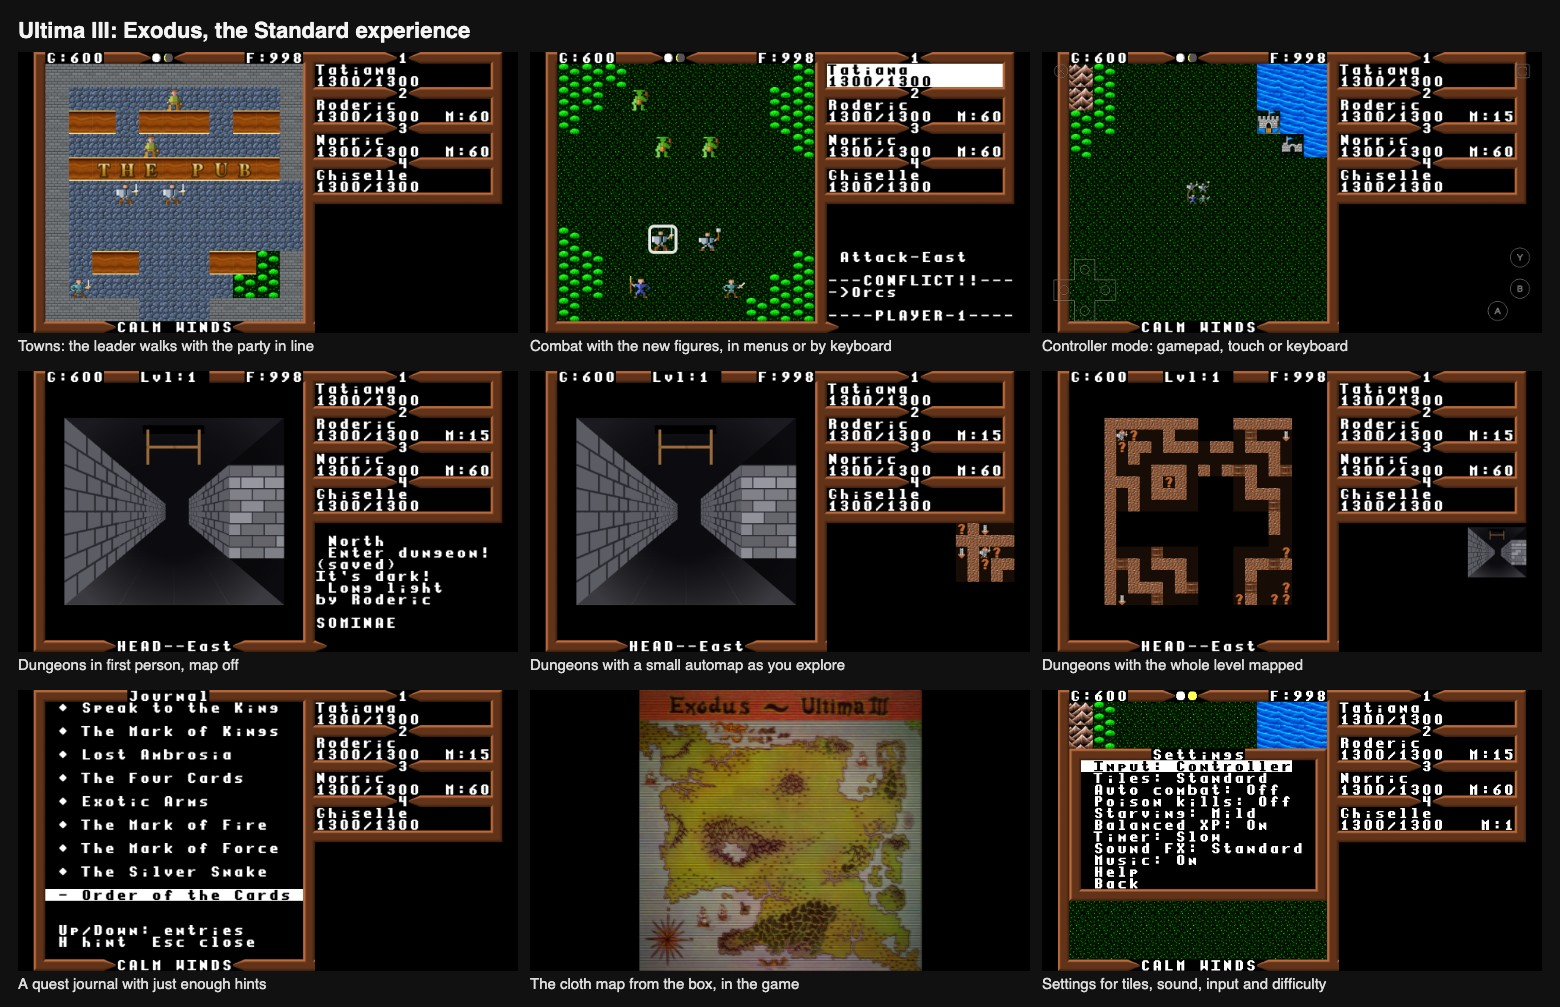
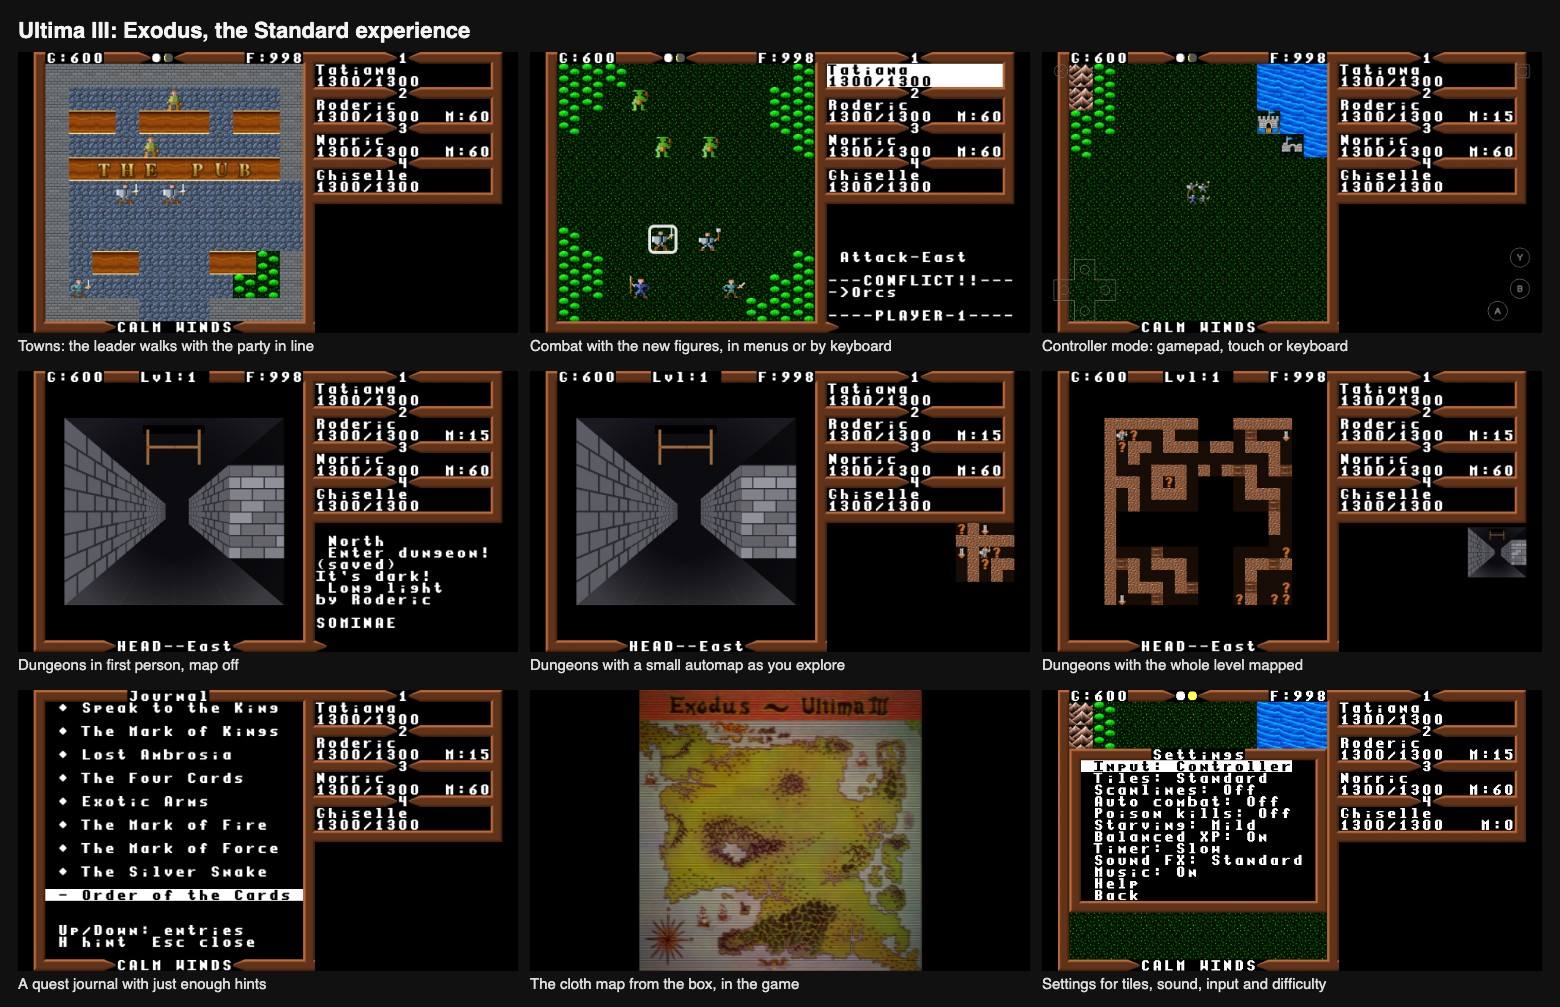
Add a changelog to the README, and reshoot the promo sheets
The README gains a changelog, release by release. The tile-set sheet is
shot again for the twelve sets, with the new Standard art and the crisp
Apple II Color tiles, and the features sheet's Settings shot shows the
Scanlines setting.

Changed region(s): [[0.6769, 0.7696, 0.8615, 0.9235], [0.8, 0.708, 0.8615, 0.7388]]

diff --git a/README.md b/README.md
@@ -24,7 +24,7 @@ changes:
 
 ![The Standard experience: a town, combat, controller mode, a dungeon with the map off, small and full, the quest journal, the cloth map and Settings](promo/features.jpg)
 
-![Thirteen tile sets, each at the opening, in combat and in a dungeon](promo/tile-sets.jpg)
+![Twelve tile sets, each at the opening, in combat and in a dungeon](promo/tile-sets.jpg)
 
 The following were design principles for the updated Standard experience:
 
@@ -213,8 +213,9 @@ boxes and Enter. The same controls are in the game under Settings > Help.
 
 ### Settings
 
-Input mode, tile set, auto combat, poison kills, starvation, balanced XP,
-the turn timer, Sound FX (Standard, Lairware or Off), music and Help.
+Input mode, tile set, scanlines, auto combat, poison kills, starvation,
+balanced XP, the turn timer, Sound FX (Standard, Lairware or Off), music
+and Help.
 Every setting is remembered by the browser. A new game asks "Choose Thine
 Adventure!": Modern (recommended), Classic (hardcore, the Apple II's
 rules) or Story (relaxed), each a preset of the difficulty settings that
@@ -288,6 +289,10 @@ These apply whatever tile set and sound set are chosen.
   game turn-based through and through.
 - Balanced XP, on by default: a kill's experience is shared among the
   living members instead of going all to the killer.
+- Scanlines, off by default: the look of a CRT over the whole game, in
+  any tile set, one line for each of the Apple II's 192 screen lines.
+  They are drawn in the screen's own pixels, so they stay even at any
+  window size.
 - Auto combat, LairWare's addition, kept, with a smarter planner: members
   path round comrades and walls to the nearest square they can strike
   from.
@@ -311,6 +316,10 @@ These apply whatever tile set and sound set are chosen.
   is talked to, a counter opens the shop, a locked door asks for a key, a
   monster is attacked.
 - Transact asks the direction first and "who" only when it matters.
+- Backing out of a command with B or Escape, at a direction, a "who" or a
+  list, says "Cancelled." and spends no turn, where the Apple II spent it.
+  A spell backed out of at its own prompt gets its mana back, and Ztats in
+  combat no longer uses up the member's turn.
 - Spell menus name spells by what they do (Magic bolt, Heal, Up a level),
   with the book name, cost and effect beneath.
 - Other and Yell are one command, and EVOCARE works from either.
@@ -339,7 +348,7 @@ These apply whatever tile set and sound set are chosen.
   letter so that two doors would not vouch for each other. That also
   stranded the second "I" of a double, which saw only its twin. It now
   looks past a run of "I"s, which reads the sign and leaves all thirty
-  doors in the game doors. The eight tile sets that draw one picture for
+  doors in the game doors. The seven tile sets that draw one picture for
   both never showed it.
 - Death Gulch's armoury had a force field running in its east wall, one
   nibble off a wall tile in the map LairWare shipped. The data files are
@@ -366,9 +375,16 @@ than the Mac version did.
   the Apple II, Commodore 64 and Macintosh sets, blue and cyan for CGA,
   flat bricks in each palette for the NES and the EGA, MCGA, VGA and
   Ultima V sets. The Mac drew one photographic dungeon whatever the tiles;
-  that pairing is the Lairware set. The Apple II dungeons carry the same
-  scanlines as their tiles, and the monochrome set draws its corridors in
-  the same green phosphor.
+  that pairing is the Lairware set. The monochrome set draws its
+  corridors, and the combat marker, in its green phosphor.
+- Scanlines are the Scanlines setting's, not the tile sets': the Apple II
+  sheets had them baked in, and here they are taken out. LairWare's
+  Apple II Color TV set, the Color art with a television's color fringes
+  and scanlines, is not included.
+- The Apple II Color tiles are crisp: LairWare's sheet smeared every edge
+  across three or four pixels, so each tile is rebuilt from the Apple II
+  bitmap, the pixels from the Mono sheet and the colors from the Color
+  sheet, in the machine's six colors.
 - Each set has its own frame and cursor in its own palette; the five PC
   sets had borrowed the Mac's. Moon phases are shown as pictures in every
   set, flat pixel moons for the sets whose machines had them.
@@ -394,9 +410,12 @@ those builds and a modern developer sensibility.
 - Every figure is new flat pixel art: the eleven character classes, the
   townspeople, the eight monsters and their sixteen variants, the Exodus
   machine's four light states, the horse, the ships, the whirlpool, chest,
-  moongate and shrine. The figures are drawn at 32 pixels on Apple II
-  silhouettes, three tones per material, and doubled into the sheet, so
-  they read as one family from the party grid to the combat arena.
+  moongate and shrine, the towns and castles, which stand on the same
+  grass as the squares around them, and the town signs and doors, the
+  Apple II's lettering in gold on flat wood. The figures are drawn at 32
+  pixels on Apple II silhouettes, three tones per material, and doubled
+  into the sheet, so they read as one family from the party grid to the
+  combat arena.
 - Each class has its own figure. Paladins, barbarians, druids, larks,
   illusionists, alchemists and rangers no longer borrow the fighter,
   cleric, wizard or jester. The party on the overworld is drawn as its
@@ -463,10 +482,85 @@ updates. A bundle opened in Discover installs system-wide instead and asks
 for a password the deck account does not have; the link and the line
 above install per user and need none.
 
+## Changelog
+
+Every release, with the desktop and Android downloads, is on the
+[releases page](https://github.com/synthwave-pixel/ultima3/releases). The
+web version always runs the newest.
+
+### v1.0.27, September 18, 2026
+
+- The Standard town and castle on the overworld are redrawn to match the
+  rest of the set, on the same grass as the squares around them. The town
+  signs and doors are the Apple II's lettering in gold on flat wood.
+- New Standard monsters: a Dragon after the PC EGA dragon; a Balron, an
+  Orcus and a Devil after the NES art, the Devil with orange horns and a
+  pitchfork; a Griffon and a Wyvern in the Dragon's pose; and a more
+  detailed Daemon, Gargoyle and Mane.
+- A Scanlines setting, off by default, lays a CRT's scanlines over the
+  whole game in any tile set. The Apple II sheets no longer have them
+  baked in, so the Apple II Color TV set is gone; a saved choice of it
+  becomes Apple II Color. The cloth map no longer shakes.
+- The Apple II Color tiles are crisp, rebuilt from the Apple II bitmaps in
+  the machine's six colors.
+- The PC MCGA shrine and the PC VGA Devil show the right pictures. The
+  flags on castles, towns and the frigate flap at the Apple II's pace; the
+  frigate's had been a flicker.
+- Backing out of a command with B or Escape says "Cancelled." and spends
+  no turn. A spell backed out of at its own prompt gets its mana back, and
+  Ztats in combat no longer uses up the member's turn.
+- In controller mode, B closes a combat menu without also passing, a held
+  button no longer repeats into extra turns, and backing out of a menu
+  leaves the turn timer where it was.
+- The [tile sets page](https://synthwave-pixel.github.io/ultima3/tiles.html)
+  draws every tile of every set, animated, on any ground.
+
+### v1.0.22, September 17, 2026
+
+- Moon's "CAPESSII" sign shows its last letter, which had been drawn as a
+  door, and Death Gulch's armoury has a wall where a force field was. Both
+  were reported by Reddit user behindtimes.
+- Linux and the Steam Deck can install from the site's Flatpak
+  repository, which brings updates like any other Flatpak.
+
+### v1.0.16, September 16, 2026
+
+- The Flatpak can see gamepads, so the Steam Deck's controls reach the
+  game.
+
+### v1.0.11, September 16, 2026
+
+- A Flatpak bundle for Linux and the Steam Deck, beside the AppImage.
+- Safeguards for Steam's Game Mode: no GPU acceleration or Chromium
+  sandbox under gamescope, and an X11 window.
+
+### v1.0.7, September 16, 2026
+
+- The README is rewritten around what changed; the game is the same.
+
+### v1.0.5, September 16, 2026
+
+- Controller mode is the default for a first visit. Keyboard mode, the
+  Apple II letter commands, stays in Settings.
+
+### v1.0.4, September 16, 2026
+
+- The title-screen menus answer each key with a sound from the current
+  set.
+
+### v1.0.2, September 16, 2026
+
+- The first release: the browser port, the desktop app for Windows, macOS
+  and Linux, and the Android app.
+
 ## For developers
 
 See [DEVELOPMENT.md](DEVELOPMENT.md): where the code lives, how to run and
 test it, and how the builds and releases are made.
+
+Every tile of every tile set, drawn and animated as the game draws it, is
+on the [tile sets page](https://synthwave-pixel.github.io/ultima3/tiles.html)
+of the web version.
 
 ## License
 

diff --git a/DEVELOPMENT.md b/DEVELOPMENT.md
@@ -14,7 +14,7 @@ The art briefs the new figures and dungeon sheets were drawn to are in
 at the root of the repository, unchanged.
 
 The two sheets the README opens with are in [`promo/`](promo/): nine
-screenshots of the Standard experience, and each of the thirteen tile sets
+screenshots of the Standard experience, and each of the twelve tile sets
 at the opening, in one fight and in one dungeon corridor. The tile-set shots
 are the game canvas captured through the debug hook `window.u3` in a
 development build: each scene is set up once and redrawn in every set, so
